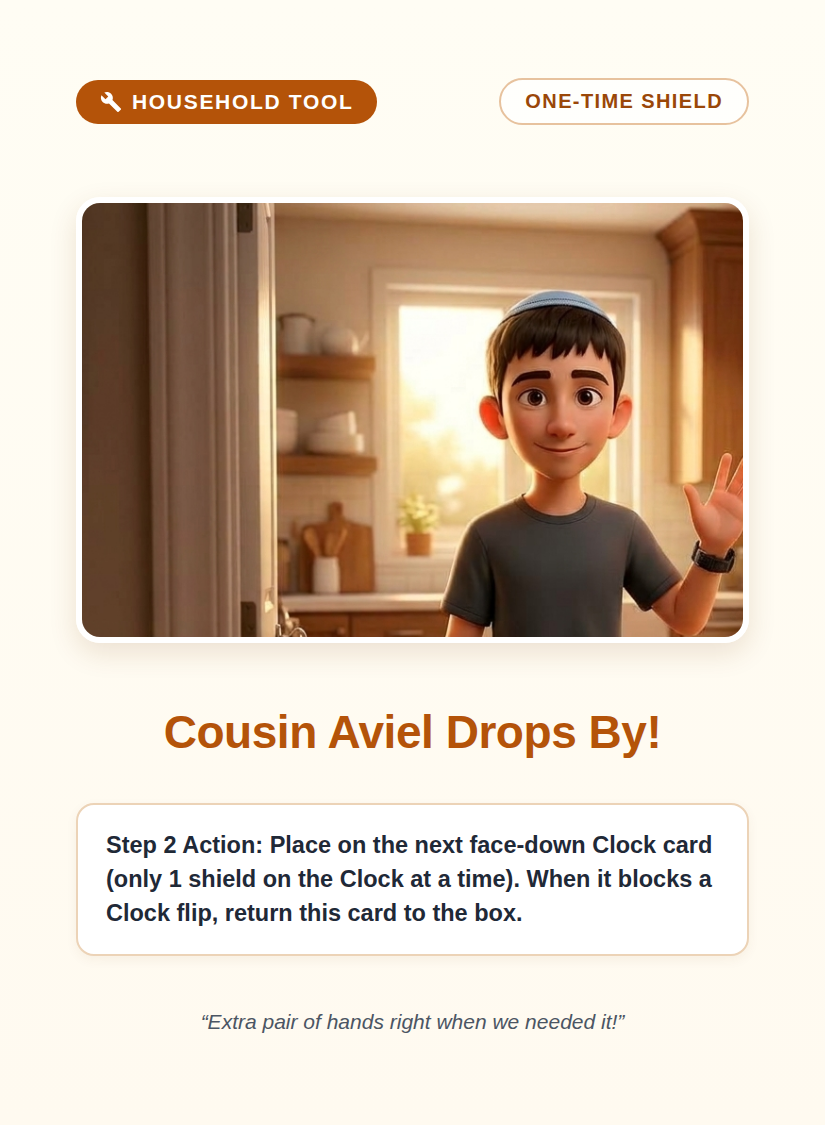
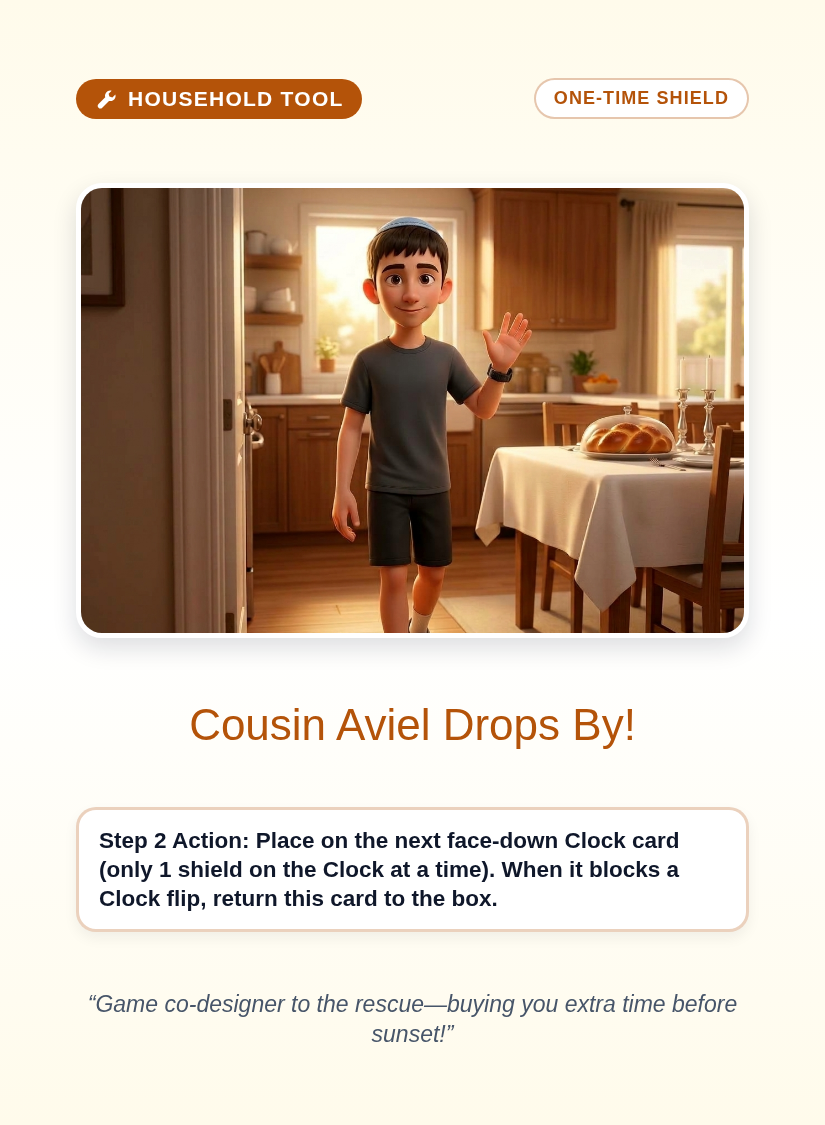
Sync official fixed Cousin Aviel Drops By! card from Drive

diff --git a/src/data/cards.ts b/src/data/cards.ts
@@ -584,7 +584,7 @@ export const TOOL_DECK: readonly ToolCardDef[] = [
       badge: 'One-Time Shield',
       rulesText:
         'Step 2 Action: Place on the next face-down Clock card (only 1 shield on the Clock at a time). When it blocks a Clock flip, return this card to the box.',
-      flavor: '“Extra pair of hands right when we needed it!”',
+      flavor: '“Game co-designer to the rescue—buying you extra time before sunset!”',
       frontImage: 'assets/cards/tool_42_44_cousin_aviel_drops_by_QTY3.webp',
     }),
   ),
